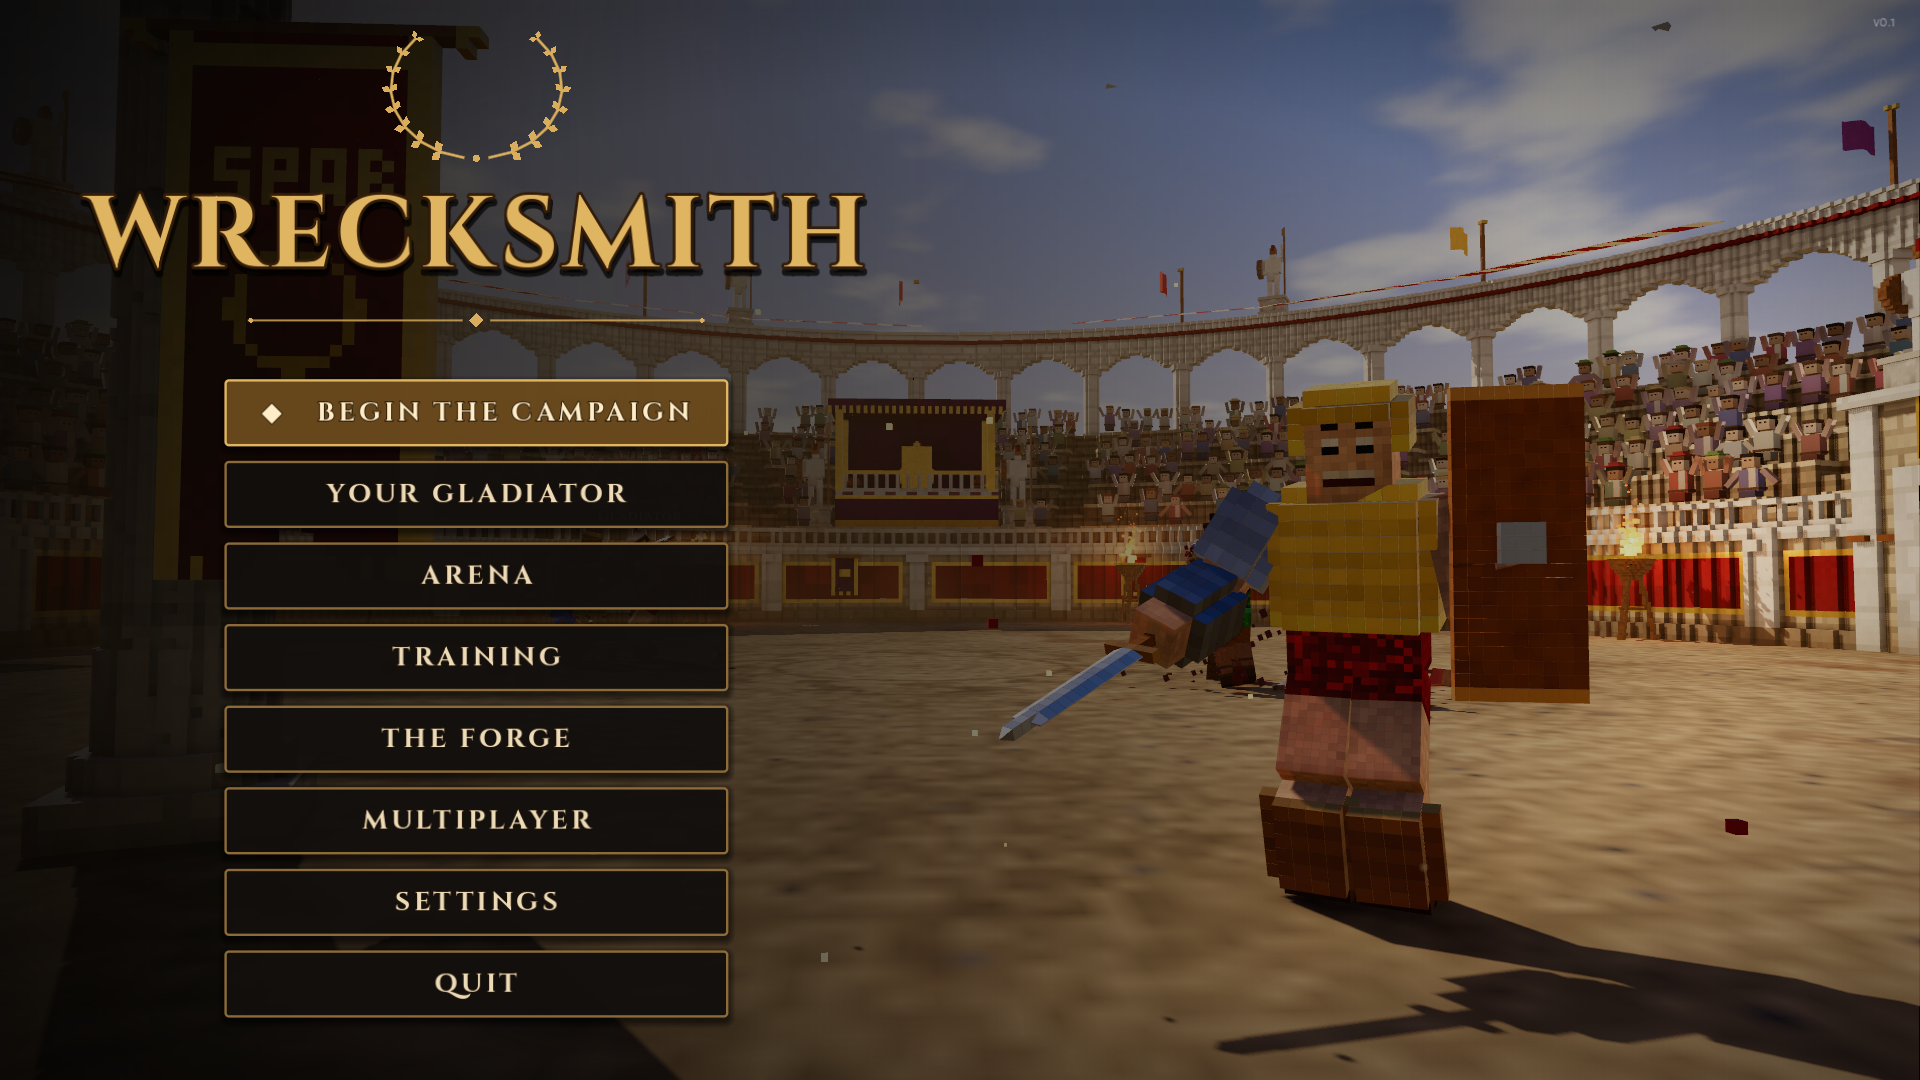
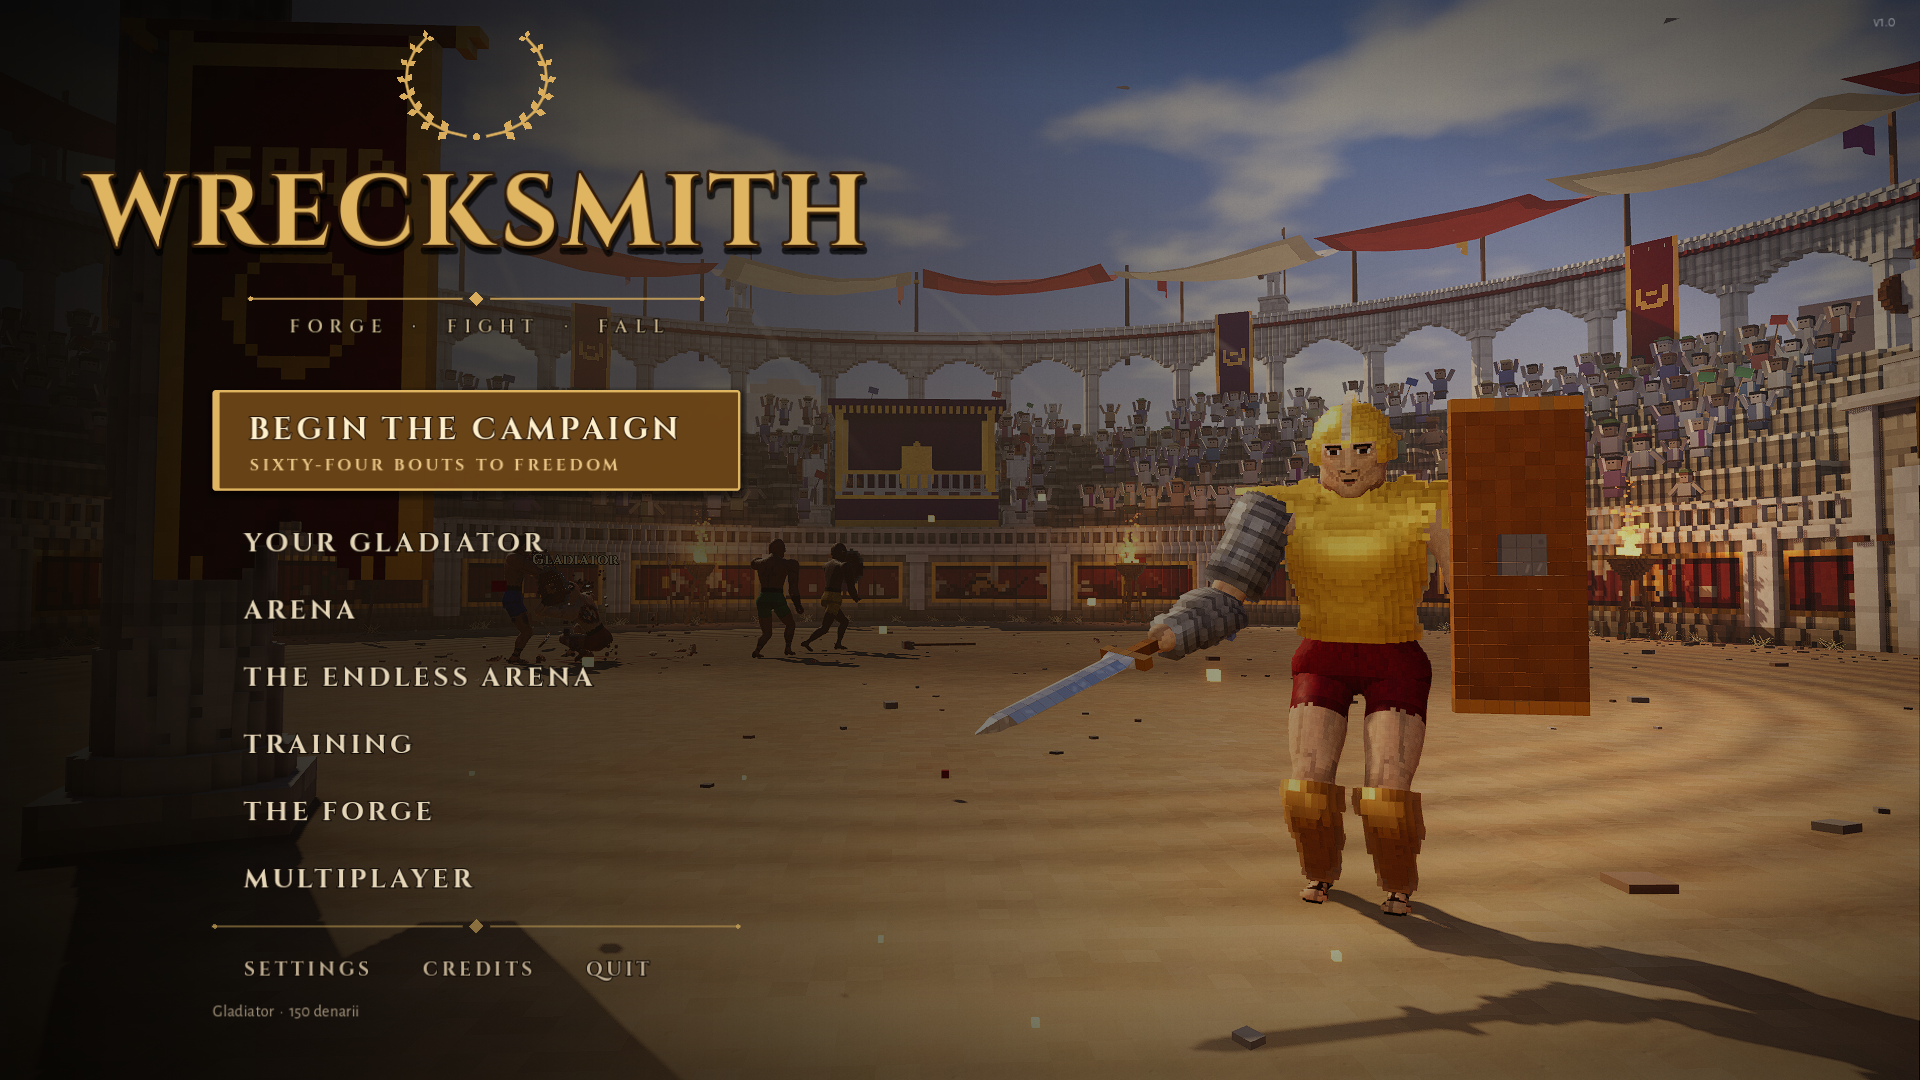
Store kit: new-look title, gladiator and forge screenshots, screenshot batch
- docs/store/screenshots: the title, your-gladiator and forge pictures made
  again in the current look (the fights were made before the characters were
  redrawn: tools/make_screenshots.bat, or make_screenshots.sh, makes them on a
  PC with a graphics card, a few minutes; a machine with no GPU needs many
  minutes for each fight).
- tests/steamshots.gd: the scene list with the forge's silly weapons, the
  player-camera shots and the yard.
- STEAM_PAGE.md and RELEASE_HE.md say so.

Claude-Session: https://claude.ai/code/session_0169vQt8Mdc9kco4Ktq1HqZ7

diff --git a/docs/RELEASE_HE.md b/docs/RELEASE_HE.md
@@ -82,7 +82,9 @@
 
 ## שלב 3 — דף החנות
 
-מה כבר קיים ב־`docs/store/`: טקסט קצר וארוך (BBCode מוכן להדבקה), תגיות, כל גדלי התמונות (capsules), 13 צילומי מסך, שתי כרזות, לוגו. `STEAM_PAGE.md` מפרט איפה מדביקים מה.
+מה כבר קיים ב־`docs/store/`: טקסט קצר וארוך (BBCode מוכן להדבקה, מעודכן ל־1.0 ול־Windows ו־Linux), תגיות, גילוי שימוש ב־AI, כל גדלי התמונות (capsules), אייקון קהילה ואייקון לקוח, 13 צילומי מסך, שתי כרזות, לוגו. `STEAM_PAGE.md` מפרט איפה מדביקים מה.
+
+**צילומי מסך:** שלושה מהם (כותר, עורך הלוחם, הפורג') צולמו מחדש במראה הנוכחי. את הקרבות אי אפשר לצלם טוב במכונה בלי כרטיס מסך (כל קרב לוקח שם עשרות דקות), אז **תריץ פעם אחת `tools\make_screenshots.bat` על המחשב שלך** (כמה דקות), תבחר שמונה עד עשרה, ותעלה אותם. Steam דורשת לפחות חמישה. הקפסולות (header, main וכו') נעשו מהמראה הישן יותר; אם תרצה אותן במראה הנוכחי, זה עבודה נפרדת שאני יכול לעשות.
 
 מה עושים ב־Steamworks (אתה, עם אפליקציה פתוחה):
 

diff --git a/docs/store/STEAM_PAGE.md b/docs/store/STEAM_PAGE.md
@@ -194,6 +194,11 @@ by and what each shows: `tools/TRAILER.md`.
 
 ## Remaking the screenshots and capsules
 
+On a PC with a graphics card, double-click **`tools\make_screenshots.bat`** (a few minutes; `make_screenshots.bat 03_clash` makes one).
+The title, your-gladiator and forge pictures here are in the current look; the fights were last made before the characters were
+redrawn, so **run the batch once on a PC with a GPU, pick the best eight to ten, and replace the rest** before the page goes up
+(a machine with no GPU needs many minutes for each fight).
+
 ```
 # screenshots (needs a display or xvfb-run), 1920x1080
 SHOT_DIR=docs/store/screenshots godot --resolution 1920x1080 --path . -- --probe steamshots
